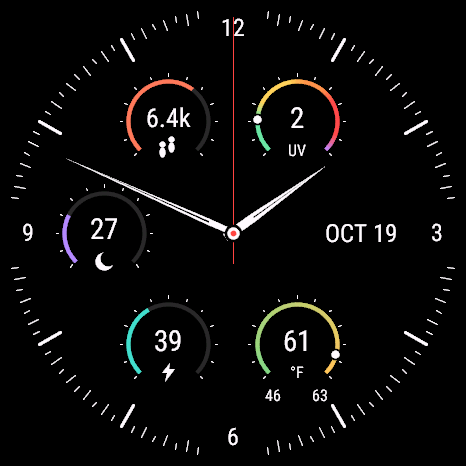
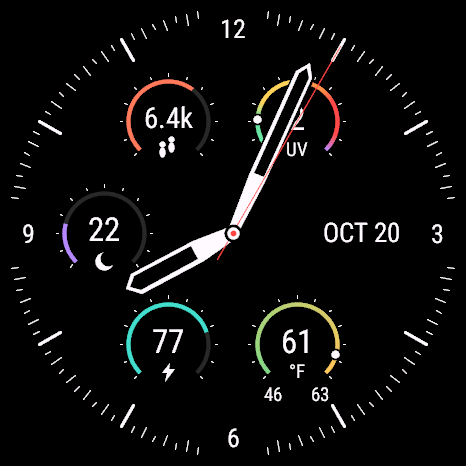
Release Sector 1.1.6 with larger text and outlined hands

diff --git a/README.md b/README.md
@@ -6,13 +6,15 @@ An open-source analog Garmin watch face: a black AMOLED dial, white hands and ma
 
 The preview uses simulator data, not personal health readings.
 
-**[Download Sector.prg](https://github.com/loganthorneloe/sector-watchface/releases/latest/download/Sector.prg)** · **[Cable-install guide](docs/INSTALL.md)** · **[Build and fork](docs/DEVELOPMENT.md)**
+**[Download Sector.prg](https://github.com/loganthorneloe/sector-watchface/raw/refs/tags/v1.1.6/install/Sector.prg)** · **[Cable-install guide](docs/INSTALL.md)** · **[Build and fork](docs/DEVELOPMENT.md)**
 
 ## Compatibility
 
-The included v1.1.5 binary targets **fēnix 9 Pro inReach, 51 mm AMOLED**, device ID `fenix9pro51mm`, 466 × 466 pixels. It has been tested in the matching Garmin simulator and transferred to that physical watch. Other sizes and models are **not supported by this binary**, even if their screens look similar. Forks can add and test their own targets.
+The included v1.1.6 binary targets **fēnix 9 Pro inReach, 51 mm AMOLED**, device ID `fenix9pro51mm`, 466 × 466 pixels. It has been tested in the matching Garmin simulator and transferred to that physical watch. Other sizes and models are **not supported by this binary**, even if their screens look similar. Forks can add and test their own targets.
 
 The manifest requires Connect IQ API 5.1.0 or later. Sleep Score requires the native complication introduced in API 6.0.2 and firmware that provides it. Unavailable values show `--`; the face never substitutes a made-up score.
+
+Version 1.1.6 adds larger text and broader, outlined hour/minute hands with short pointed tips. The thin red second hand is unchanged.
 
 ## On the dial
 
@@ -32,7 +34,7 @@ The red second hand appears while the display is awake. Low-power/off mode is co
 ## Install in a minute
 
 1. Confirm your exact watch model matches the compatibility section.
-2. Download **Sector.prg** from [Releases](https://github.com/loganthorneloe/sector-watchface/releases/latest). It is also included in [`install/`](install/).
+2. Download **Sector.prg** using the link above, or get it from [`install/`](install/). The matching checksum is in [`install/SHA256SUMS`](install/SHA256SUMS).
 3. Connect with a USB **data** cable and select **MTP / File Transfer** on the watch if prompted.
 4. Copy `Sector.prg` into the watch’s existing **`GARMIN/APPS`** folder.
 5. Wait for the transfer to finish, eject if available, disconnect, and select **Sector** in the watch-face picker.
@@ -55,7 +57,7 @@ Fork the repo, follow [DEVELOPMENT.md](docs/DEVELOPMENT.md), and build with your
 
 ## Validation
 
-Version 1.1.5 compiles with Connect IQ SDK 9.2.0. All six simulator tests pass, covering step progress, temperature conversion and range, formatting, Body Battery fallback validity, and color interpolation. The release has been visually checked in the 466 × 466 target simulator and USB transfer was verified by reading the file back. Wider model support and long-term battery consumption have not been established.
+Version 1.1.6 compiles with Connect IQ SDK 9.2.0. All six simulator tests pass, covering step progress, temperature conversion and range, formatting, Body Battery fallback validity, and color interpolation. The release has been visually checked in the 466 × 466 target simulator and USB transfer was verified by reading the file back. Wider model support and long-term battery consumption have not been established.
 
 ## License
 

diff --git a/docs/INSTALL.md b/docs/INSTALL.md
@@ -4,7 +4,7 @@
 
 The supplied `Sector.prg` is for **fēnix 9 Pro inReach, 51 mm AMOLED** (`fenix9pro51mm`) only. Other Garmin models need their own compiled and tested build. A USB charging cable must also support data transfer.
 
-Download [`Sector.prg` from the latest release](https://github.com/loganthorneloe/sector-watchface/releases/latest/download/Sector.prg). Download the actual file, not a saved GitHub HTML page. If using the repository ZIP, the ready-to-install file is `install/Sector.prg`; do not copy the entire ZIP to the watch.
+Download [`Sector.prg` for v1.1.6](https://github.com/loganthorneloe/sector-watchface/raw/refs/tags/v1.1.6/install/Sector.prg). Download the actual file, not a saved GitHub HTML page. If using the repository ZIP, the ready-to-install file is `install/Sector.prg`; do not copy the entire ZIP to the watch.
 
 ## 1. Connect and enable file transfer
 
@@ -55,7 +55,7 @@ To remove Sector, select another watch face and use the watch’s installed watc
 
 ## Optional download verification
 
-Download `SHA256SUMS` from the same release and compare the checksum of `Sector.prg`:
+Download [`SHA256SUMS` for the same version](https://github.com/loganthorneloe/sector-watchface/raw/refs/tags/v1.1.6/install/SHA256SUMS) and compare the checksum of `Sector.prg`:
 
 ```sh
 # macOS
